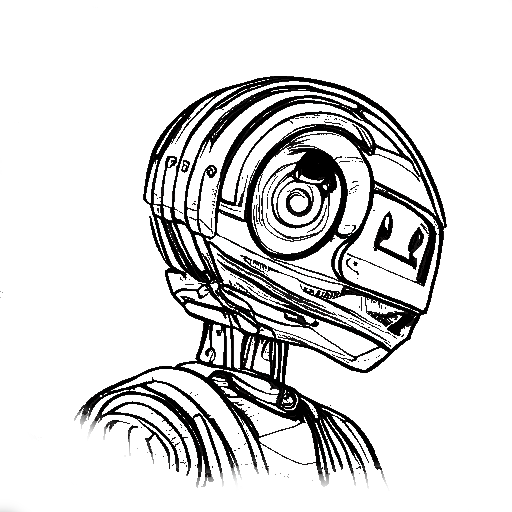
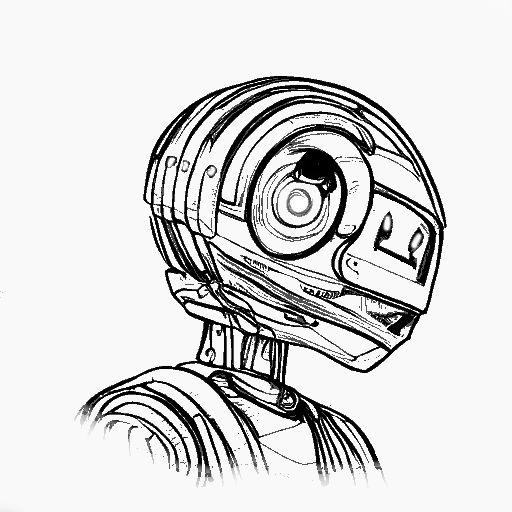
Make Roberto flink in red when dreaming

diff --git a/src/engineering-meeting/meeting-randomiser.ts b/src/engineering-meeting/meeting-randomiser.ts
@@ -2,7 +2,7 @@ import { delay, fetchWithTimeout } from './extensions';
 import { allBlocks, BuildingBlock } from './models/building-block';
 import { Content } from './models/state';
 
-const characteristics = ['Beautiful', 'Detailed', 'Fully transparent Background', 'Trending on artstation', 'Realistic', 'Movie Poster']
+const characteristics = ['Movie Poster', 'Beautiful', 'Detailed', 'Trending on artstation', 'Realistic']
 
 export class MeetingRandomiser {
    private blockRandomiser: BlockRandomiser

diff --git a/src/engineering-meeting/styles/engineering-meeting.css b/src/engineering-meeting/styles/engineering-meeting.css
@@ -160,6 +160,19 @@
 .loading-content .loading-image {
    height: 512px;
    width: 512px;
+   animation: glow linear 1s infinite;
+}
+
+@keyframes glow {
+   0% {
+      background-color: transparent;
+   }
+   50% {
+      background-color: red;
+   }
+   100% {
+      background-color: transparent;
+   }
 }
 
 .loading-content .loading-text {
